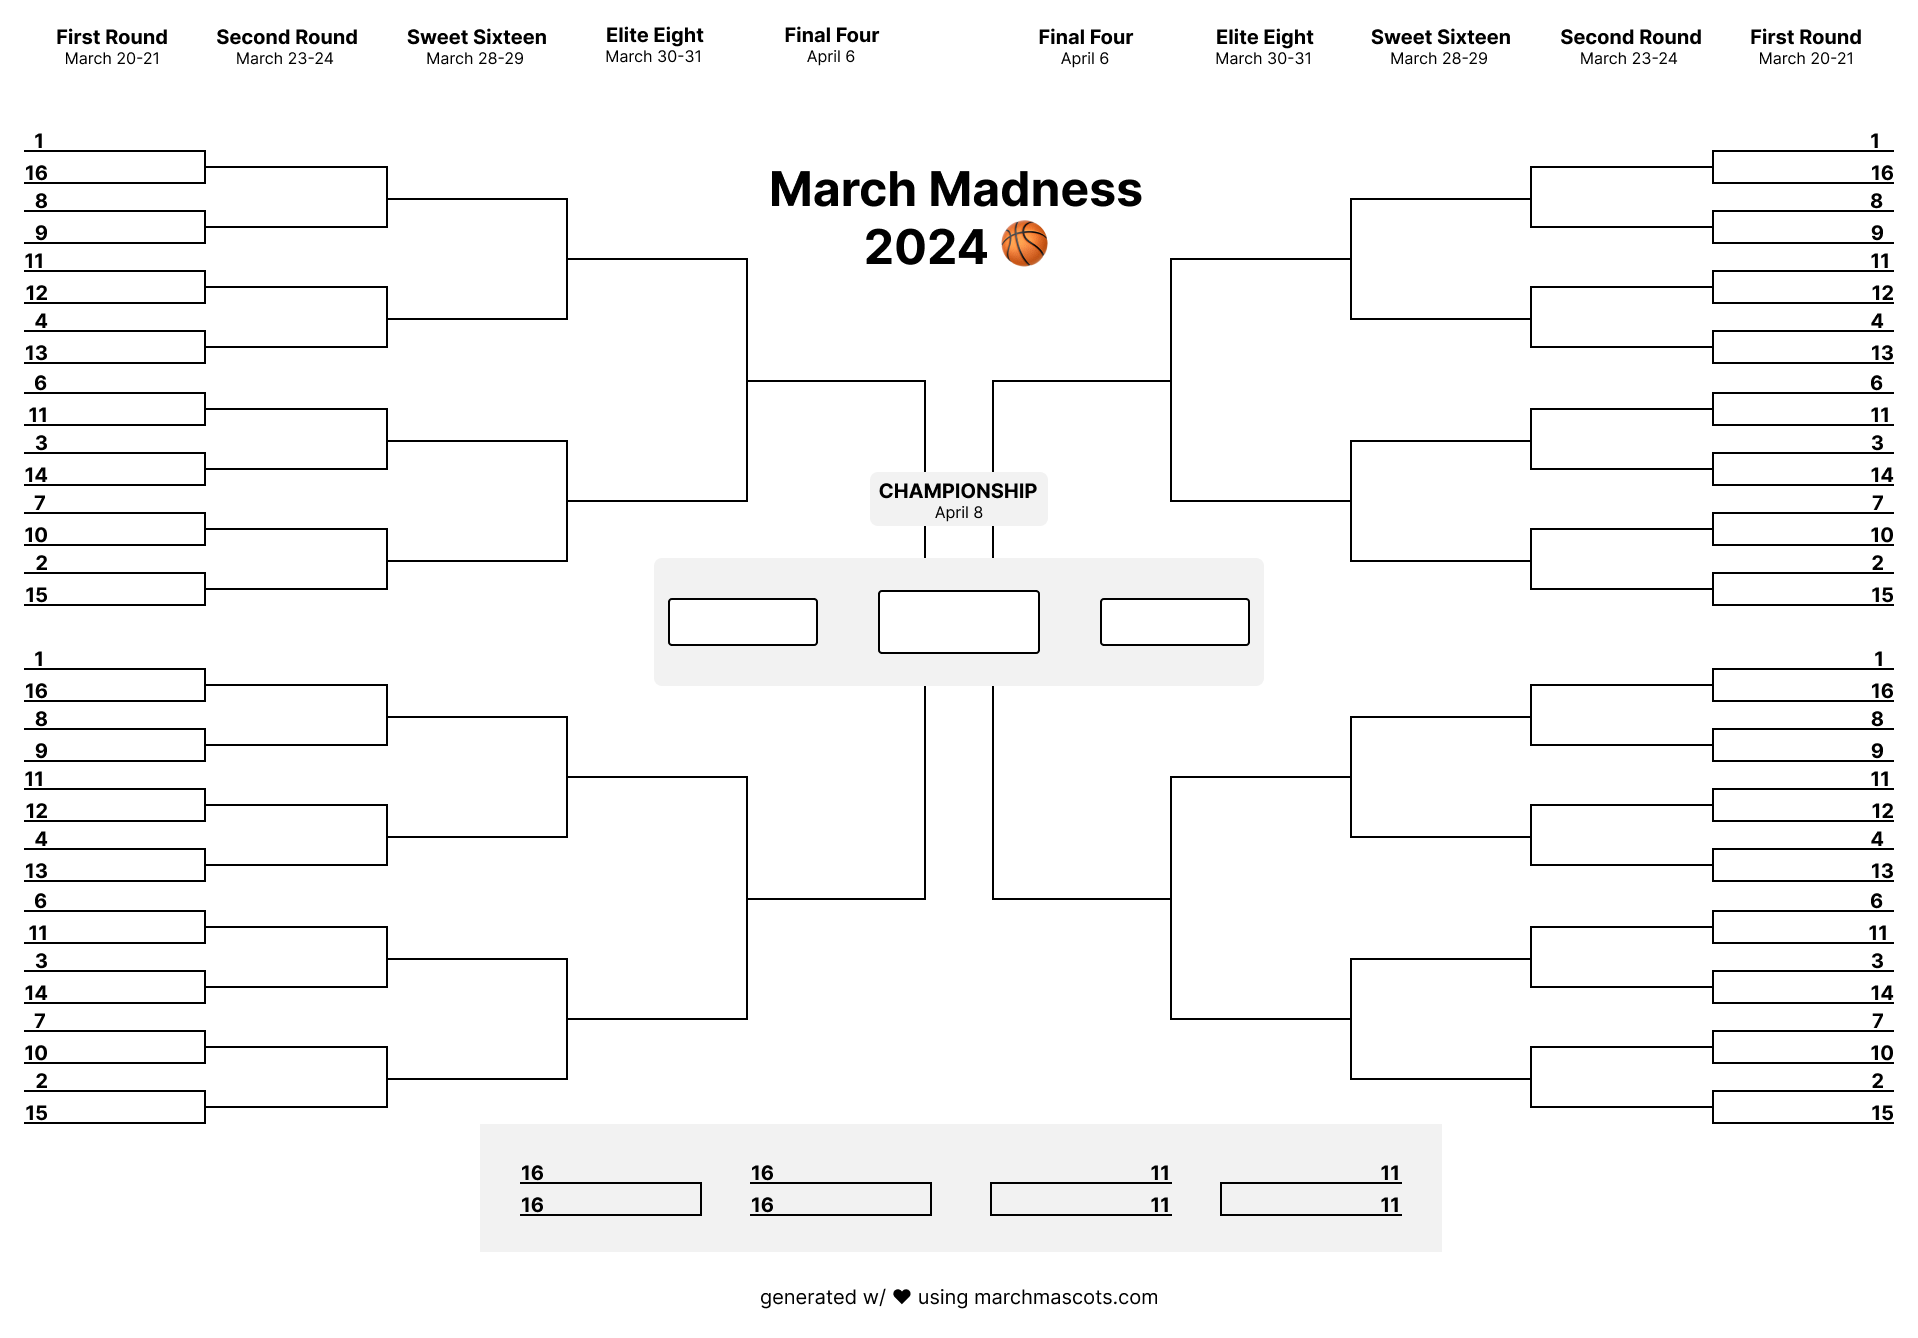
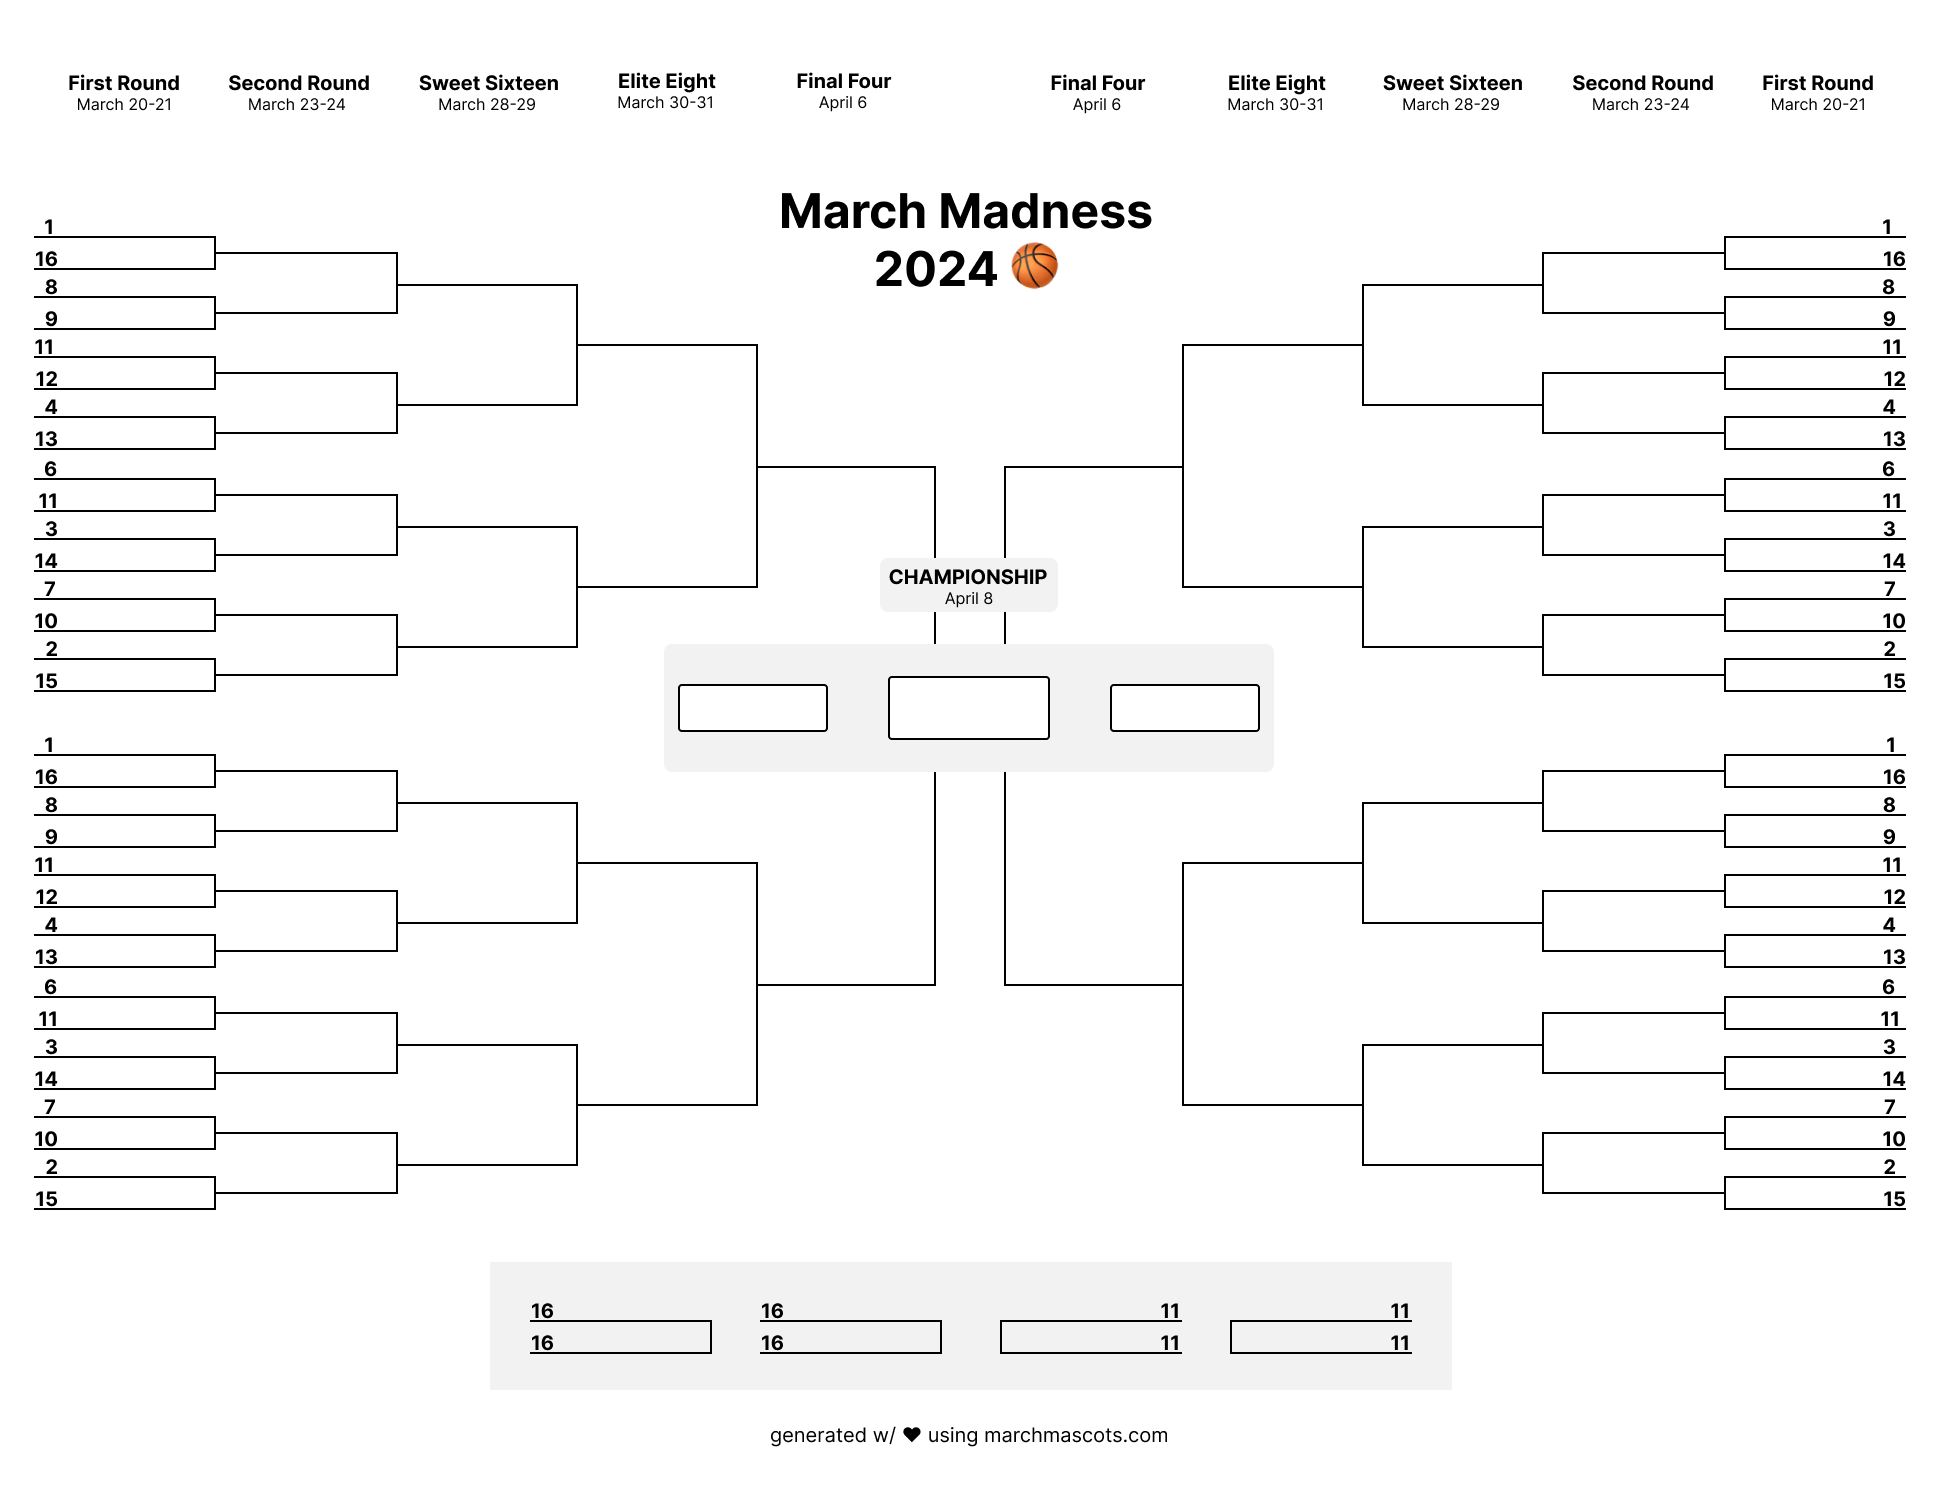
#12 adjust image size, coordinates/references

diff --git a/app/common/tournament-round-enum.tsx b/app/common/tournament-round-enum.tsx
@@ -55,7 +55,7 @@ export function getNextRound(currentRound: TournamentRound): TournamentRound | n
 export function getXStep(currentRound: TournamentRound): number {
   switch (currentRound) {
     case TournamentRound.First:
-      return 55;
+      return 62;
     case TournamentRound.Second:
       return 220;
     case TournamentRound.Sixteen:
@@ -79,19 +79,19 @@ export function getXStep(currentRound: TournamentRound): number {
 export function getYStart(currentRound: TournamentRound): number {
   switch (currentRound) {
     case TournamentRound.First:
-      return 145;
+      return 230;
     case TournamentRound.Second:
-      return 160;
+      return 245;
     case TournamentRound.Sixteen:
-      return 190;
+      return 275;
     case TournamentRound.Eight:
-      return 250;
+      return 335;
     case TournamentRound.FinalFour:
-      return 370;
+      return 455;
     case TournamentRound.Championship:
-      return 628;
+      return 715;
     default:
-      return 628;
+      return 715;
   }
 }
 

diff --git a/app/components/states/win-state/win-state.tsx b/app/components/states/win-state/win-state.tsx
@@ -38,7 +38,7 @@ function generateCoordinates(matchHistory: string[]): CollegeCoordinates[] {
  */
 function determineX(idx: number): number {
   const currentRound = determineRound(idx);
-  const canvasWidth = 1918;
+  const canvasWidth = 1941;
 
   if (currentRound === TournamentRound.FirstFour) return determineFirstFourX(idx);
 
@@ -93,13 +93,13 @@ function determineY(idx: number): number {
 function determineFirstFourX(idx: number): number {
   switch (Math.floor(idx / 2)) {
     case 0:
-      return 550;
+      return 560;
     case 1:
-      return 780;
+      return 790;
     case 2:
-      return 1140; 
+      return 1150; 
     default:
-      return 1370;
+      return 1380;
   }
 }
 
@@ -109,7 +109,7 @@ function determineFirstFourX(idx: number): number {
  * @returns a number representing the y value.
  */
 function determineFirstFourY(idx: number): number {
-  let y = 1180;
+  let y = 1320;
   const yStep = 30;
 
   // if the college is on the bottom of the bracket, add the step.

diff --git a/app/components/bracket/bracket.tsx b/app/components/bracket/bracket.tsx
@@ -35,8 +35,8 @@ export default function Bracket({collegeCoordinates}: { collegeCoordinates: Coll
 		const ctx = canvas.getContext('2d');
 		if (ctx === null) return;
 
-		canvas.width = 1918;
-		canvas.height = 1338;
+		canvas.width = 1941;
+		canvas.height = 1500;
 		ctx.font = "22px Arial";
 
 		// Set bracket as background image

diff --git a/app/components/bracket/bracket.module.css b/app/components/bracket/bracket.module.css
@@ -1,4 +1,4 @@
 .bracket {
-    max-height: min(1338px, 95vh);
-    max-width: min(1918px, 95vw);
+    max-height: min(1500px, 95vh);
+    max-width: min(1941px, 95vw);
 }
